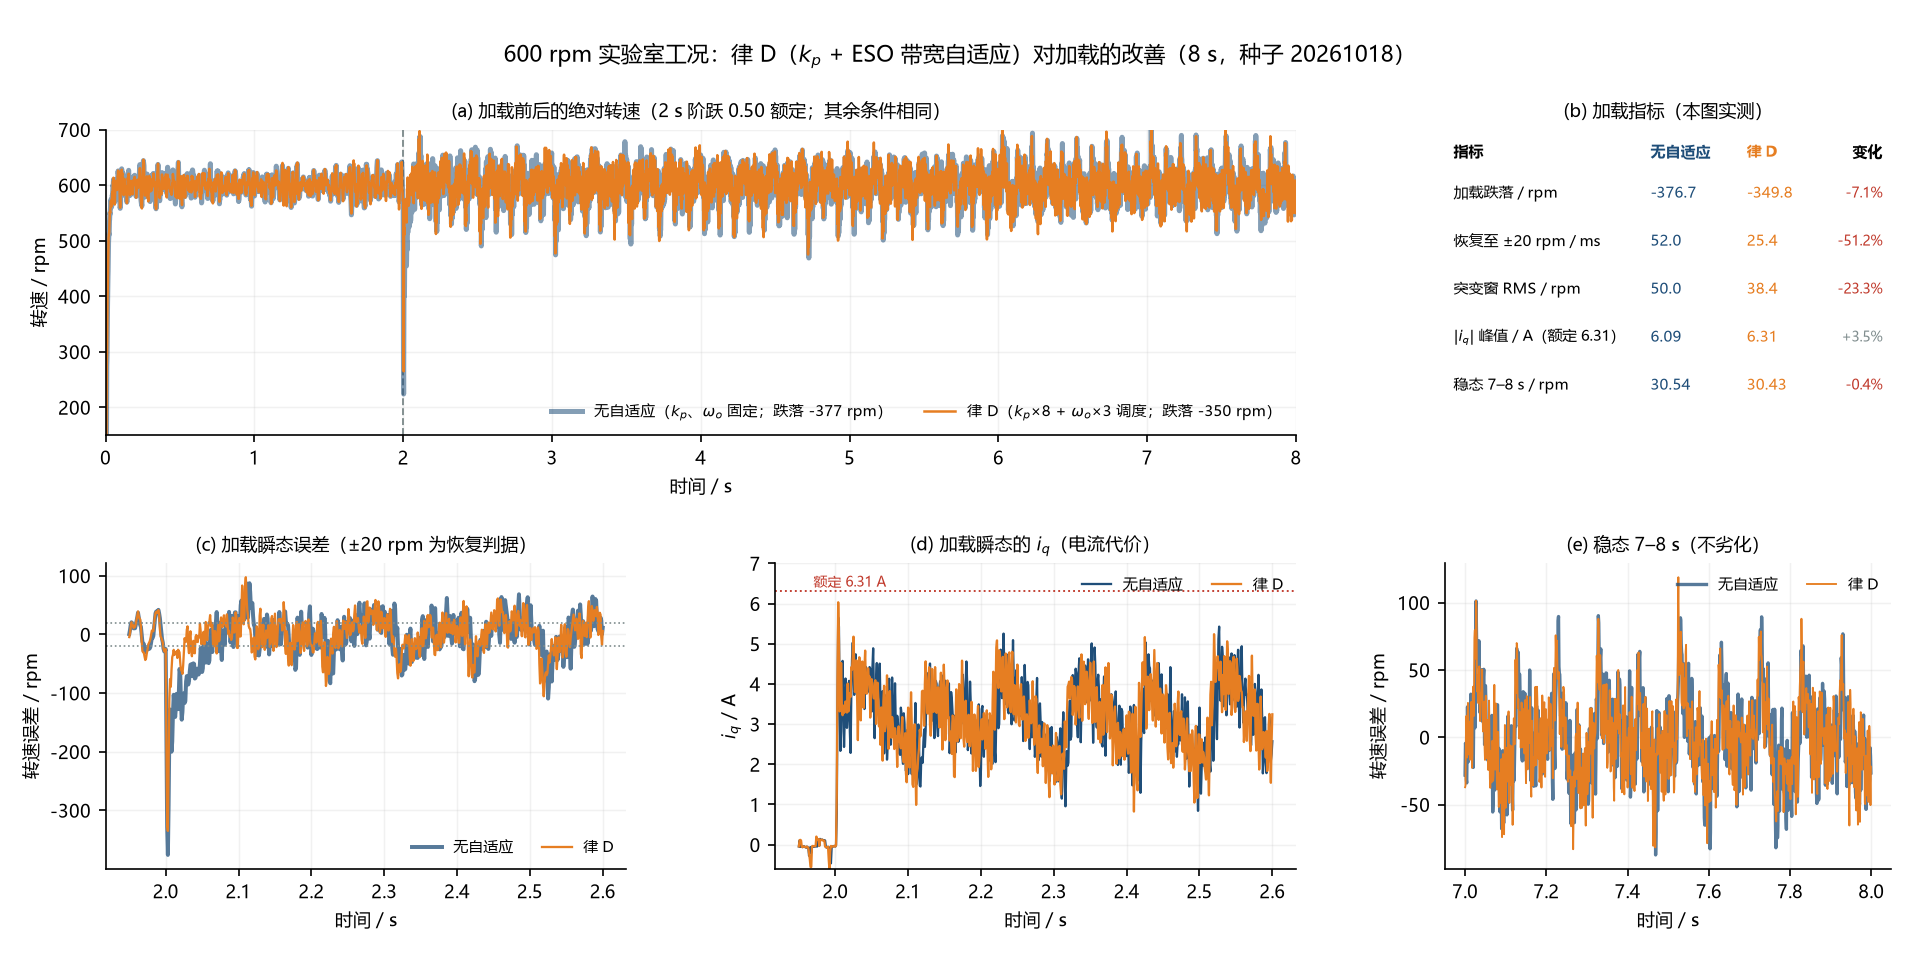
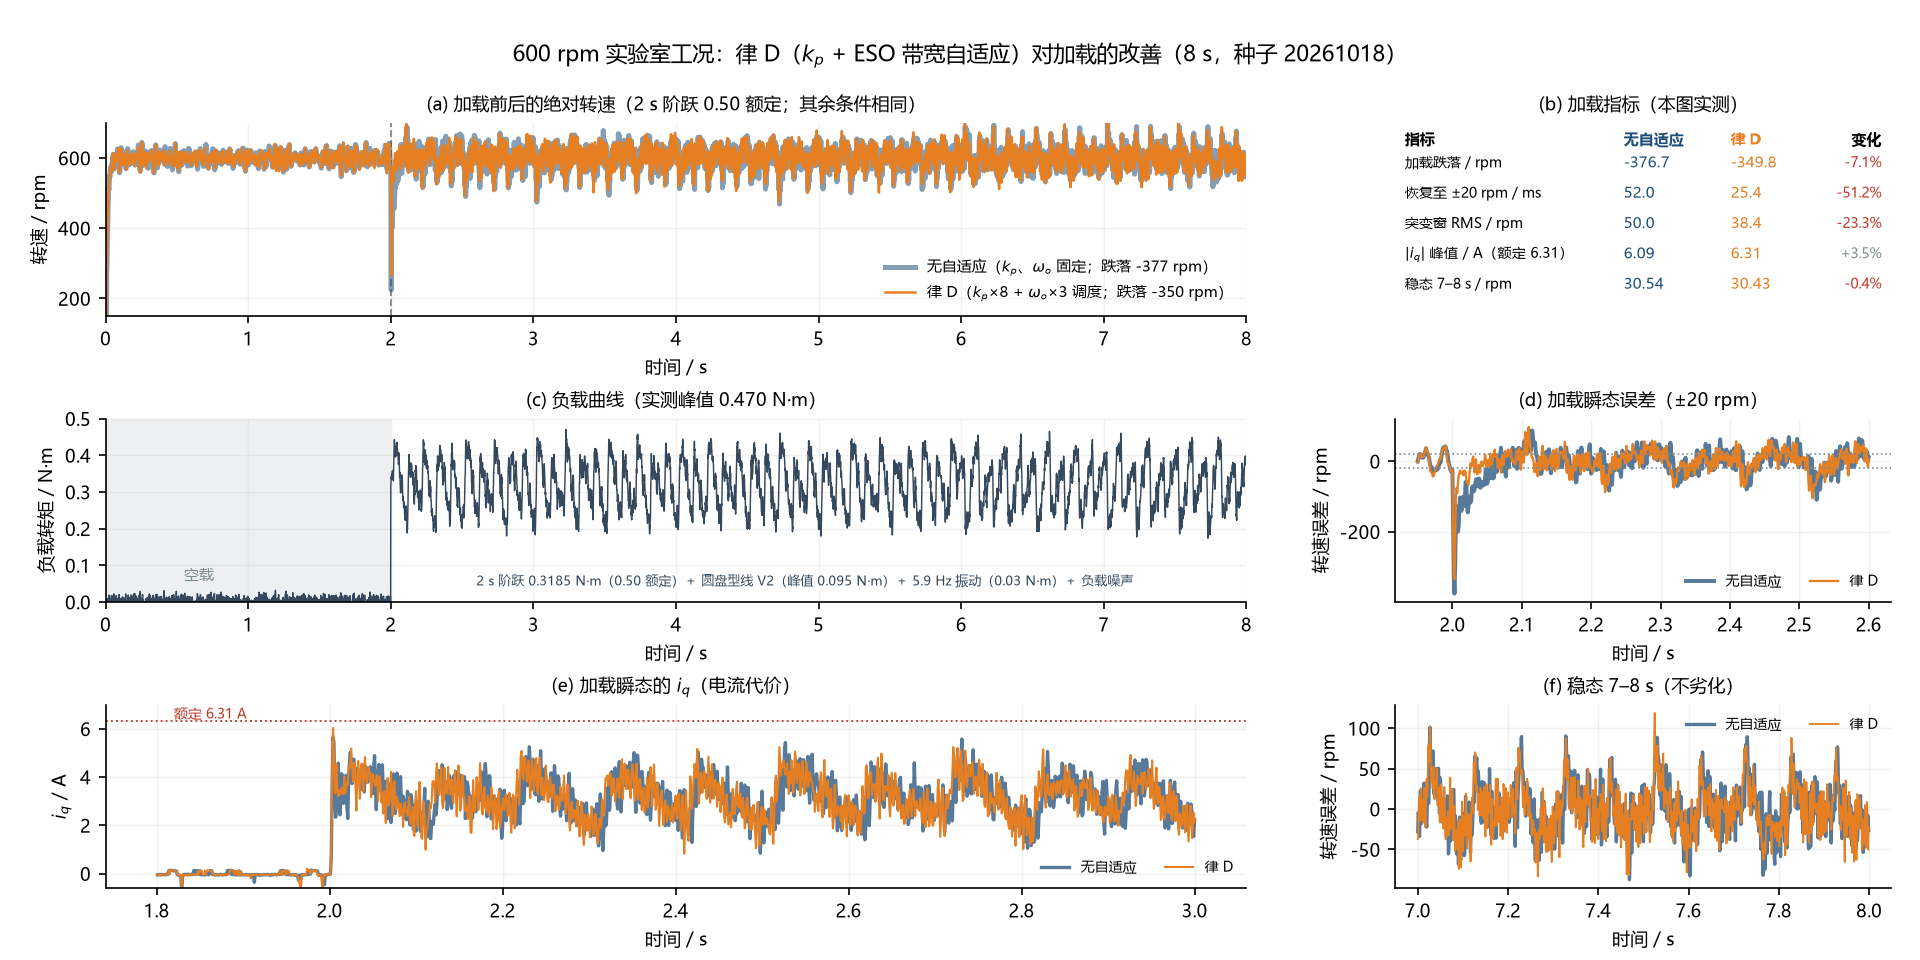
feat(fig): 律D 对比图加入负载曲线（六面板 3×3）
- (c) 负载曲线：0-2 s 空载、2 s 阶跃 0.3185 N·m、峰值 0.470 N·m\n- 其余面板保持：转速/指标表/瞬态误差/iq/稳态；指标不变

diff --git a/plot_lawd_cmp_600.py b/plot_lawd_cmp_600.py
@@ -1,12 +1,11 @@
 # -*- coding: utf-8 -*-
-"""plot_lawd_cmp_600.py —— 律 D（带宽自适应）对加载的改善（1920×960）"""
+"""plot_lawd_cmp_600.py —— 律 D（带宽自适应）对加载的改善（含负载曲线，1920×960）"""
 import json
 
 import numpy as np
 import matplotlib
 matplotlib.use("Agg")
 import matplotlib.pyplot as plt
-from matplotlib.patches import Patch
 
 N_REF = 600.0
 C_BASE, C_LAWD, C_LOAD = "#1f4e79", "#e67e22", "#34495e"
@@ -25,7 +24,7 @@ dec = max(1, int(round(1e-3 / (t[1] - t[0]))))
 ts = t[::dec]
 y_b = np.asarray(d["y_base"]); y_l = np.asarray(d["y_lawd"])
 iq_b = np.asarray(d["iq_base"]); iq_l = np.asarray(d["iq_lawd"])
-tl = np.asarray(d["tl"])
+tl = np.asarray(d["tl"])[::dec]
 eb_full = (y_b - 1.0) * N_REF
 el_full = (y_l - 1.0) * N_REF
 eb = eb_full[::dec]; el = el_full[::dec]
@@ -35,9 +34,9 @@ iqb = iq_b[::dec]; iql = iq_l[::dec]
 def metrics(e, iq, tt):
     m = (tt >= 1.9) & (tt <= 2.5)
     dip = float(np.min(e[m]))
-    i0_full = int(np.where(m)[0][int(np.argmin(e[m]))])
-    idx = np.where((np.abs(e) <= 20.0) & (np.arange(len(e)) > i0_full) & (tt >= 2.0))[0]
-    rec = float(tt[idx[0]] - 2.0) * 1e3 if len(idx) else np.nan
+    i0 = int(np.where(m)[0][int(np.argmin(e[m]))])
+    idx = np.where((np.abs(e) <= 20.0) & (np.arange(len(e)) > i0) & (tt >= 2.0))[0]
+    rec = float(tt[idx[0]] - 2.0) * 1e3 if len(idx) else float("nan")
     return dict(dip=dip, rec_ms=rec,
                 step_rms=float(np.sqrt(np.mean(e[(tt >= 2.0) & (tt < 2.5)] ** 2))),
                 iq_max=float(np.max(np.abs(iq))),
@@ -48,24 +47,24 @@ mb = metrics(eb_full, iq_b, t)
 ml = metrics(el_full, iq_l, t)
 
 fig = plt.figure(figsize=(12.8, 6.4))
-gs = fig.add_gridspec(2, 3, width_ratios=[1.05, 1.05, 0.9],
-                      left=0.055, right=0.985, top=0.865, bottom=0.095,
-                      wspace=0.30, hspace=0.42)
+gs = fig.add_gridspec(3, 3, left=0.055, right=0.985, top=0.872, bottom=0.075,
+                      height_ratios=[1.0, 0.95, 0.95], wspace=0.30, hspace=0.55)
 ax_a = fig.add_subplot(gs[0, :2])
 ax_b = fig.add_subplot(gs[0, 2])
-ax_c = fig.add_subplot(gs[1, 0])
-ax_d = fig.add_subplot(gs[1, 1])
-ax_e = fig.add_subplot(gs[1, 2])
+ax_c = fig.add_subplot(gs[1, :2])
+ax_d = fig.add_subplot(gs[1, 2])
+ax_e = fig.add_subplot(gs[2, :2])
+ax_f = fig.add_subplot(gs[2, 2])
 
 # (a) 0–8 s 绝对转速
 ax_a.axvline(2.0, color="#7f8c8d", ls="--", lw=0.9)
-ax_a.plot(ts, 600 + eb, color=C_BASE, lw=2.4, alpha=0.55, label="无自适应（$k_p$、$\\omega_o$ 固定；跌落 %.0f rpm）" % mb["dip"])
-ax_a.plot(ts, 600 + el, color=C_LAWD, lw=1.2, label="律 D（$k_p$×8 + $\\omega_o$×3 调度；跌落 %.0f rpm）" % ml["dip"])
-tdip_b = ts[int(np.argmin(eb[(ts >= 1.9) & (ts <= 2.5)])) + int(np.where(ts >= 1.9)[0][0])]
-
+ax_a.plot(ts, 600 + eb, color=C_BASE, lw=2.4, alpha=0.55,
+          label="无自适应（$k_p$、$\\omega_o$ 固定；跌落 %.0f rpm）" % mb["dip"])
+ax_a.plot(ts, 600 + el, color=C_LAWD, lw=1.2,
+          label="律 D（$k_p$×8 + $\\omega_o$×3 调度；跌落 %.0f rpm）" % ml["dip"])
 ax_a.set_xlim(0, 8); ax_a.set_ylim(150, 700)
 ax_a.set_xlabel("时间 / s"); ax_a.set_ylabel("转速 / rpm")
-ax_a.legend(fontsize=7.4, loc="lower right", ncol=2)
+ax_a.legend(fontsize=7.2, loc="lower right", ncol=1)
 ax_a.set_title("(a) 加载前后的绝对转速（2 s 阶跃 0.50 额定；其余条件相同）", fontsize=8.8)
 
 # (b) 指标表
@@ -83,49 +82,61 @@ rows = [
     ("稳态 7–8 s / rpm", "%.2f" % mb["steady"], "%.2f" % ml["steady"],
      "%+.1f%%" % (100 * (ml["steady"] / mb["steady"] - 1)), True),
 ]
-ax_b.text(0.02, 1.00, "指标", fontsize=7.4, va="top", weight="bold")
-ax_b.text(0.47, 1.00, "无自适应", fontsize=7.4, va="top", color=C_BASE, weight="bold")
-ax_b.text(0.69, 1.00, "律 D", fontsize=7.4, va="top", color=C_LAWD, weight="bold")
-ax_b.text(1.00, 1.00, "变化", fontsize=7.4, va="top", ha="right", weight="bold")
+ax_b.text(0.02, 1.00, "指标", fontsize=7.3, va="top", weight="bold")
+ax_b.text(0.47, 1.00, "无自适应", fontsize=7.3, va="top", color=C_BASE, weight="bold")
+ax_b.text(0.69, 1.00, "律 D", fontsize=7.3, va="top", color=C_LAWD, weight="bold")
+ax_b.text(1.00, 1.00, "变化", fontsize=7.3, va="top", ha="right", weight="bold")
 for i, (nm, a, b, ch, good) in enumerate(rows):
     yv = 0.83 - i * 0.165
-    ax_b.text(0.02, yv, nm, fontsize=7.0, va="center")
+    ax_b.text(0.02, yv, nm, fontsize=6.9, va="center")
     ax_b.text(0.47, yv, a, fontsize=7.0, va="center", color=C_BASE)
     ax_b.text(0.69, yv, b, fontsize=7.0, va="center", color=C_LAWD)
-    ax_b.text(1.00, yv, ch, fontsize=6.8, va="center", ha="right",
+    ax_b.text(1.00, yv, ch, fontsize=6.7, va="center", ha="right",
               color=("#c0392b" if good else "#7f8c8d"))
 ax_b.set_xlim(0, 1.02); ax_b.set_ylim(0, 1.05)
 
-# (c) 转速误差放大
+# (c) 负载曲线
+ax_c.axvspan(0, 2, color="#bdc3c7", alpha=0.25, lw=0)
+ax_c.plot(ts, tl, color=C_LOAD, lw=0.7)
+ax_c.text(0.55, 0.06, "空载", fontsize=7.0, color="#7f8c8d")
+ax_c.text(2.6, 0.045, "2 s 阶跃 0.3185 N·m（0.50 额定）＋ 圆盘型线 V2（峰值 0.095 N·m）＋ 5.9 Hz 振动（0.03 N·m）＋ 负载噪声",
+          fontsize=6.4, color=C_LOAD,
+          bbox=dict(facecolor="white", alpha=0.78, edgecolor="none", pad=1.6))
+ax_c.set_xlim(0, 8); ax_c.set_ylim(0, 0.5)
+ax_c.set_xlabel("时间 / s"); ax_c.set_ylabel("负载转矩 / N·m")
+ax_c.set_title("(c) 负载曲线（实测峰值 %.3f N·m）" % float(np.max(tl)), fontsize=8.8)
+
+# (d) 加载瞬态误差
 m = (ts >= 1.95) & (ts <= 2.60)
-ax_c.plot(ts[m], eb[m], color=C_BASE, lw=1.9, alpha=0.75, label="无自适应")
-ax_c.plot(ts[m], el[m], color=C_LAWD, lw=1.1, label="律 D")
-ax_c.axhline(-20, color="#7f8c8d", ls=":", lw=0.8)
-ax_c.axhline(20, color="#7f8c8d", ls=":", lw=0.8)
-ax_c.set_xlabel("时间 / s"); ax_c.set_ylabel("转速误差 / rpm")
-ax_c.set_title("(c) 加载瞬态误差（±20 rpm 为恢复判据）", fontsize=8.8)
-ax_c.legend(fontsize=7.0, loc="lower right", ncol=2)
+ax_d.plot(ts[m], eb[m], color=C_BASE, lw=1.9, alpha=0.75, label="无自适应")
+ax_d.plot(ts[m], el[m], color=C_LAWD, lw=1.1, label="律 D")
+ax_d.axhline(-20, color="#7f8c8d", ls=":", lw=0.8)
+ax_d.axhline(20, color="#7f8c8d", ls=":", lw=0.8)
+ax_d.set_xlabel("时间 / s"); ax_d.set_ylabel("转速误差 / rpm")
+ax_d.set_title("(d) 加载瞬态误差（±20 rpm）", fontsize=8.8)
+ax_d.legend(fontsize=6.8, loc="lower right", ncol=2)
 
-# (d) iq 电流
-ax_d.plot(ts[m], iqb[m], color=C_BASE, lw=1.1, label="无自适应")
-ax_d.plot(ts[m], iql[m], color=C_LAWD, lw=1.1, label="律 D")
-ax_d.axhline(6.31, color="#c0392b", ls=":", lw=0.9)
-ax_d.text(1.97, 6.42, "额定 6.31 A", fontsize=6.8, color="#c0392b")
-ax_d.set_ylim(-0.6, 7.0)
-ax_d.set_xlabel("时间 / s"); ax_d.set_ylabel("$i_q$ / A")
-ax_d.set_title("(d) 加载瞬态的 $i_q$（电流代价）", fontsize=8.8)
-ax_d.legend(fontsize=7.0, loc="upper right", ncol=2)
+# (e) iq
+m2 = (ts >= 1.8) & (ts <= 3.0)
+ax_e.plot(ts[m2], iqb[m2], color=C_BASE, lw=1.6, alpha=0.75, label="无自适应")
+ax_e.plot(ts[m2], iql[m2], color=C_LAWD, lw=1.0, label="律 D")
+ax_e.axhline(6.31, color="#c0392b", ls=":", lw=0.9)
+ax_e.text(1.82, 6.42, "额定 6.31 A", fontsize=6.8, color="#c0392b")
+ax_e.set_ylim(-0.6, 7.0)
+ax_e.set_xlabel("时间 / s"); ax_e.set_ylabel("$i_q$ / A")
+ax_e.set_title("(e) 加载瞬态的 $i_q$（电流代价）", fontsize=8.8)
+ax_e.legend(fontsize=6.8, loc="lower right", ncol=2)
 
-# (e) 稳态 7–8 s
-m2 = (ts >= 7.0) & (ts <= 8.0)
-ax_e.plot(ts[m2], eb[m2], color=C_BASE, lw=1.6, alpha=0.75, label="无自适应")
-ax_e.plot(ts[m2], el[m2], color=C_LAWD, lw=0.9, label="律 D")
-ax_e.set_xlabel("时间 / s"); ax_e.set_ylabel("转速误差 / rpm")
-ax_e.set_title("(e) 稳态 7–8 s（不劣化）", fontsize=8.8)
-ax_e.legend(fontsize=7.0, loc="upper right", ncol=2)
+# (f) 稳态 7–8 s
+m3 = (ts >= 7.0) & (ts <= 8.0)
+ax_f.plot(ts[m3], eb[m3], color=C_BASE, lw=1.6, alpha=0.75, label="无自适应")
+ax_f.plot(ts[m3], el[m3], color=C_LAWD, lw=0.9, label="律 D")
+ax_f.set_xlabel("时间 / s"); ax_f.set_ylabel("转速误差 / rpm")
+ax_f.set_title("(f) 稳态 7–8 s（不劣化）", fontsize=8.8)
+ax_f.legend(fontsize=6.8, loc="upper right", ncol=2)
 
 fig.suptitle("600 rpm 实验室工况：律 D（$k_p$ + ESO 带宽自适应）对加载的改善（8 s，种子 20261018）",
-             fontsize=10.6, y=0.955)
+             fontsize=10.4, y=0.955)
 fig.savefig("fig_lawd_cmp_600.png", dpi=150, facecolor="white")
 try:
     from PIL import Image
@@ -133,7 +144,8 @@ try:
 except Exception:
     pass
 
-json.dump(dict(base=mb, lawd=ml), open("_lawd_cmp_600_metrics.json", "w", encoding="utf-8"),
-          ensure_ascii=False, indent=1)
+json.dump(dict(base=mb, lawd=ml, tl_peak=float(np.max(tl)),
+               tl_mean_loaded=float(np.mean(tl[ts >= 3.0]))),
+          open("_lawd_cmp_600_metrics.json", "w", encoding="utf-8"), ensure_ascii=False, indent=1)
 print("ok: fig_lawd_cmp_600.png")
 print("base", mb); print("lawd", ml)
